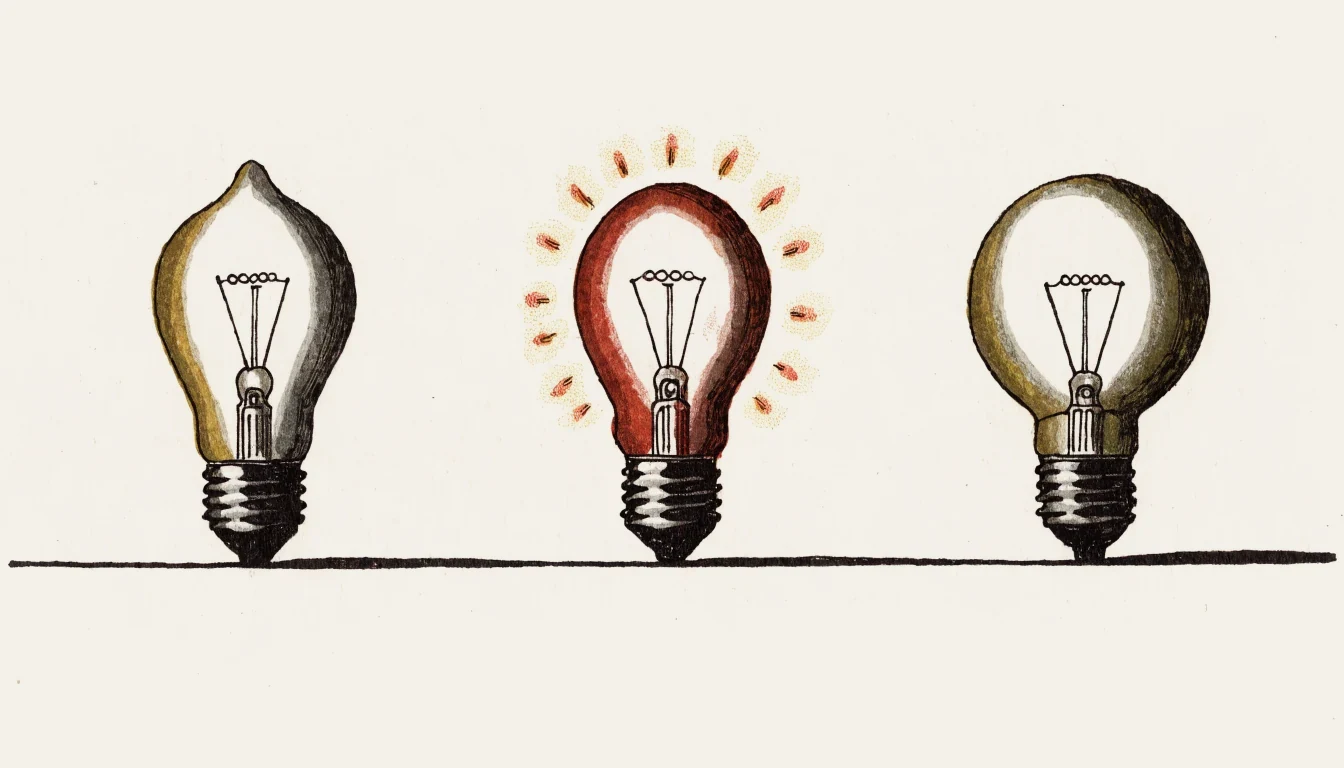
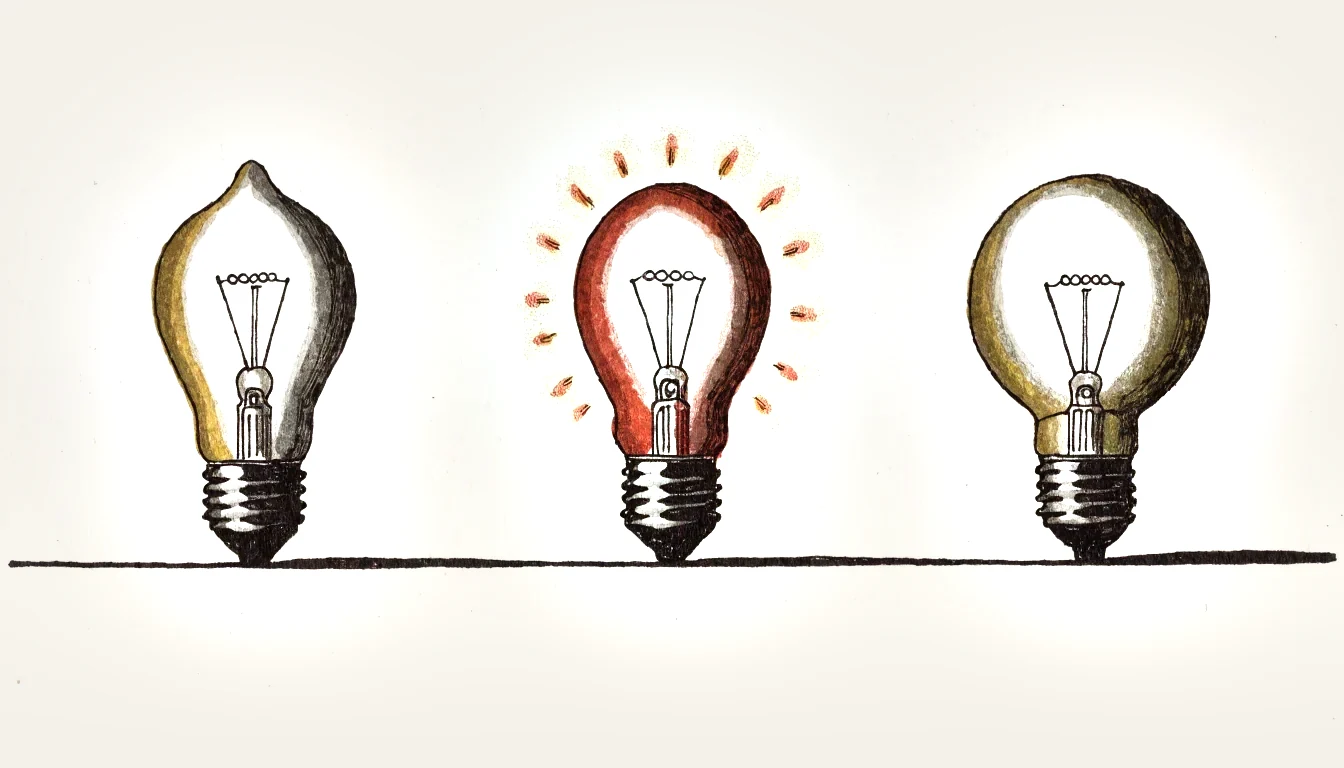
Bilder fuer die Lerndokus 03 bis 06
Zwoelf dekorative Tafeln, drei je Dokument, im gleichen Tuschestil.

Hybrid-Zeichnungen wie bei den FL-Leuchten:
- 04 FI-Schalter: Ringkern mit gegenlaeufigen Leitern, Sekundaerwicklung,
  Ausloeserelais und Kontakten; fuenf Callouts, zweisprachige Legende
- 06 Badezimmer: generierter Bad-Schnitt als Grundlage, darueber im SVG
  die Zonenflaechen 0/1/2 sowie die Masse 2.25 m und 0.60 m

05 IP-Kennzeichnung behaelt die handgezeichnete SVG-Zeichnung: sie besteht
fast nur aus Typografie, und Text ist genau das, was Bildmodelle verhauen.
03 LS-Automaten ebenfalls: der generierte Schnitt zeigte weder Loeschkammer
noch Kontaktsystem eindeutig, die Legende benennt aber acht Bauteile.

Bildgruende per Flat-Field auf den jeweiligen Hintergrund gelegt (Seite
bzw. figure) — die einfache Eckpunkt-Angleichung ueberhellte die Mitte,
weil die generierten Bilder eine Vignette haben.

Pruefung erweitert: <img>-Masse muessen zur Datei passen, in SVG
eingebettete Bilder muessen existieren.

Changed region(s): [[0.375, 0.1562, 0.625, 0.7812], [0.7188, 0.2188, 0.9375, 0.75], [0.0938, 0.2188, 0.2812, 0.75]]

diff --git a/lehrjahr-2/04-fi-schalter.html b/lehrjahr-2/04-fi-schalter.html
@@ -98,6 +98,14 @@
       <p lang="de">Der FI erkennt <strong>nur Ströme, die den Stromkreis verlassen</strong>. Wer gleichzeitig Aussenleiter und Neutralleiter berührt, wird nicht geschützt: Der Strom fliesst hin und wieder zurück, die Summe bleibt null. Der FI ersetzt darum niemals das Freischalten.</p>
       <p lang="en">The RCD only detects <strong>current that leaves the circuit</strong>. Anyone touching the line and the neutral at the same time is not protected: the current flows out and back, and the sum stays zero. An RCD therefore never replaces isolating the circuit.</p>
     </div>
+    <figure class="plate">
+      <img src="../assets/img/fi-02-aussensteckdose.webp" width="1344" height="768" loading="lazy" decoding="async" alt="Aussensteckdose mit Klappdeckel im Regen.">
+      <figcaption>
+        <span lang="de">Genau hier zählt der FI: nasse Umgebung, Handgerät, guter Weg zur Erde.</span>
+        <span lang="en">Exactly where an RCD counts: wet surroundings, a hand tool, a good path to earth.</span>
+      </figcaption>
+    </figure>
+
   </div>
 </section>
 
@@ -108,75 +116,31 @@
     <h2><span lang="de">Aufbau und Wirkungsweise</span><span lang="en">Construction and operation</span></h2>
 
     <figure>
-      <svg viewBox="0 0 760 400" xmlns="http://www.w3.org/2000/svg" role="img" aria-label="Wirkungsweise des FI-Schalters mit Summenstromwandler">
+      <svg viewBox="0 0 1500 980" xmlns="http://www.w3.org/2000/svg" role="img" aria-label="Wirkungsweise des FI-Schalters mit Summenstromwandler">
         <defs>
           <style>
-            .wl{fill:none;stroke:#B8402A;stroke-width:3;stroke-linecap:round}
-            .wn{fill:none;stroke:#1D5872;stroke-width:3;stroke-linecap:round}
-            .wpe{fill:none;stroke:#3F6B43;stroke-width:2.6;stroke-linecap:round;stroke-dasharray:8 5}
-            .core{fill:none;stroke:#48433B;stroke-width:9}
-            .coil{fill:none;stroke:#9A7B1F;stroke-width:2.6}
-            .bx{fill:#EFEAE0;stroke:#171614;stroke-width:2.2}
-            .lg{font-family:'IBM Plex Mono',monospace;font-size:12px;fill:#48433B}
-            .lgb{font-family:'IBM Plex Mono',monospace;font-size:12.5px;font-weight:600;fill:#171614}
-            .lgs{font-family:'IBM Plex Mono',monospace;font-size:10.5px;fill:#7D7669;letter-spacing:.07em}
-            .ldr{fill:none;stroke:#7D7669;stroke-width:1.2}
-            .arw{fill:none;stroke:#171614;stroke-width:2;stroke-linecap:round}
+            .cn{fill:#171614}
+            .cnt{fill:#F4F1EA;font-family:'IBM Plex Mono',monospace;font-size:19px;font-weight:600;text-anchor:middle}
+            .ldr{fill:none;stroke:#48433B;stroke-width:2}
           </style>
         </defs>
 
-        <!-- Ringkern -->
-        <ellipse class="core" cx="330" cy="150" rx="86" ry="58"/>
-        <text class="lgs" x="330" y="238" text-anchor="middle"><tspan lang="de">SUMMENSTROMWANDLER</tspan><tspan lang="en">CORE BALANCE TRANSFORMER</tspan></text>
+        <image href="../assets/img/fi-schema-ringkern.webp" x="0" y="90" width="1500" height="851"/>
 
-        <!-- Leiter durch den Kern -->
-        <path class="wl" d="M60 126 H600"/>
-        <path class="wn" d="M60 174 H600"/>
-        <text class="lgb" x="60" y="116" fill="#B8402A">L</text>
-        <text class="lgb" x="60" y="200" fill="#1D5872">N</text>
+        <path class="ldr" d="M815 65 V105"/>
+        <circle class="cn" cx="815" cy="45" r="20"/><text class="cnt" x="815" y="52">1</text>
 
-        <!-- Stromrichtungspfeile -->
-        <path class="arw" d="M180 126 h30 M204 120 l8 6 l-8 6" stroke="#B8402A"/>
-        <path class="arw" d="M210 174 h-30 M186 168 l-8 6 l8 6" stroke="#1D5872"/>
+        <path class="ldr" d="M1038 275 L886 292"/>
+        <circle class="cn" cx="1060" cy="272" r="20"/><text class="cnt" x="1060" y="279">2</text>
 
-        <!-- Sekundärwicklung -->
-        <path class="coil" d="M330 92 q -12 -10 0 -20 q 12 -10 0 -20"/>
-        <path class="coil" d="M330 52 H408"/>
+        <path class="ldr" d="M1192 748 L1034 682"/>
+        <circle class="cn" cx="1212" cy="757" r="20"/><text class="cnt" x="1212" y="764">3</text>
 
-        <!-- Auslöserelais -->
-        <rect class="bx" x="408" y="30" width="86" height="46" rx="3"/>
-        <text class="lg" x="451" y="52" text-anchor="middle"><tspan lang="de">Auslöse-</tspan><tspan lang="en">Trip</tspan></text>
-        <text class="lg" x="451" y="68" text-anchor="middle"><tspan lang="de">relais</tspan><tspan lang="en">relay</tspan></text>
+        <path class="ldr" d="M1400 372 V452"/>
+        <circle class="cn" cx="1400" cy="350" r="20"/><text class="cnt" x="1400" y="357">4</text>
 
-        <!-- Wirkung auf Kontakte -->
-        <path d="M451 76 V96 H208" stroke="#7D7669" stroke-width="1.8" stroke-dasharray="6 5" fill="none"/>
-        <path d="M208 96 V116" stroke="#7D7669" stroke-width="1.8" stroke-dasharray="6 5" fill="none"/>
-        <!-- Kontakte -->
-        <circle cx="208" cy="126" r="4.5" fill="#171614"/>
-        <circle cx="252" cy="126" r="4.5" fill="#171614"/>
-        <path d="M208 126 L248 112" stroke="#171614" stroke-width="3" stroke-linecap="round"/>
-        <circle cx="208" cy="174" r="4.5" fill="#171614"/>
-        <circle cx="252" cy="174" r="4.5" fill="#171614"/>
-        <path d="M208 174 L248 160" stroke="#171614" stroke-width="3" stroke-linecap="round"/>
-        <text class="lgs" x="196" y="104"><tspan lang="de">ALLPOLIGE TRENNUNG</tspan><tspan lang="en">ALL-POLE DISCONNECTION</tspan></text>
-
-        <!-- Prüfkreis -->
-        <path d="M470 126 V270 H556" stroke="#B8402A" stroke-width="2.4" fill="none"/>
-        <path d="M556 270 h18" stroke="#B8402A" stroke-width="2.4"/>
-        <circle cx="592" cy="270" r="20" fill="#F0DBD4" stroke="#B8402A" stroke-width="2.4"/>
-        <text x="592" y="276" font-family="'Archivo',sans-serif" font-size="16" font-weight="800" fill="#B8402A" text-anchor="middle">T</text>
-        <path d="M592 250 V174" stroke="#1D5872" stroke-width="2.4" fill="none" stroke-dasharray="0"/>
-        <text class="lgs" x="500" y="292"><tspan lang="de">PRÜFKREIS — ERZEUGT EINEN DEFINIERTEN FEHLERSTROM</tspan><tspan lang="en">TEST CIRCUIT — CREATES A DEFINED RESIDUAL CURRENT</tspan></text>
-
-        <!-- Fehlerstrom nach Erde -->
-        <path class="wpe" d="M600 126 V340 H330"/>
-        <path class="wpe" d="M330 340 V208"/>
-        <text class="lgs" x="356" y="360" fill="#3F6B43"><tspan lang="de">FEHLERSTROM ÜBER ERDE — VERLÄSST DEN KERN NICHT ZURÜCK</tspan><tspan lang="en">FAULT CURRENT VIA EARTH — DOES NOT RETURN THROUGH THE CORE</tspan></text>
-
-        <!-- Formel -->
-        <path class="ldr" d="M416 150 H520"/>
-        <text class="lgb" x="528" y="146">I<tspan baseline-shift="sub" font-size="9">L</tspan> + I<tspan baseline-shift="sub" font-size="9">N</tspan> = 0</text>
-        <text class="lgs" x="528" y="164"><tspan lang="de">IM FEHLERFREIEN KREIS</tspan><tspan lang="en">IN A HEALTHY CIRCUIT</tspan></text>
+        <path class="ldr" d="M218 676 L296 594"/>
+        <circle class="cn" cx="200" cy="694" r="20"/><text class="cnt" x="200" y="701">5</text>
       </svg>
       <figcaption>
         <b><span lang="de">Bild 1</span><span lang="en">Fig. 1</span></b>
@@ -184,6 +148,14 @@
         <span lang="en"> — Principle of operation. All live conductors pass through the same toroidal core. Only if the sum of the currents is not zero does a voltage appear in the secondary winding.</span>
       </figcaption>
     </figure>
+
+    <ul class="legend">
+      <li><span class="n">1</span><span lang="de">Auslöserelais — wird von der Sekundärwicklung gespeist und entklinkt das Schaltschloss</span><span lang="en">Trip relay — fed by the secondary winding, it releases the latch</span></li>
+      <li><span class="n">2</span><span lang="de">Sekundärwicklung auf dem Ringkern</span><span lang="en">Secondary winding on the toroidal core</span></li>
+      <li><span class="n">3</span><span lang="de">Summenstromwandler — der Ringkern, durch den alle aktiven Leiter führen</span><span lang="en">Core balance transformer — the ring core all live conductors pass through</span></li>
+      <li><span class="n">4</span><span lang="de">Aktive Leiter mit gegenläufiger Stromrichtung; der Schutzleiter führt <strong>nicht</strong> durch den Kern</span><span lang="en">Live conductors with opposing current directions; the protective conductor does <strong>not</strong> pass through the core</span></li>
+      <li><span class="n">5</span><span lang="de">Kontakte — trennen alle Pole gleichzeitig</span><span lang="en">Contacts — disconnecting all poles simultaneously</span></li>
+    </ul>
 
     <h3><span lang="de">Der Ablauf</span><span lang="en">The sequence</span></h3>
     <ol lang="de">
@@ -331,6 +303,14 @@
       <p lang="de">Jedes elektronische Gerät hat einen kleinen, völlig normalen Ableitstrom. Hängen viele Geräte hinter demselben 30-mA-FI, addieren sich diese Ströme und der FI löst irgendwann ohne echten Fehler aus. Faustregel: Der summierte Ableitstrom soll deutlich unter der Hälfte des Bemessungsfehlerstromes bleiben. Abhilfe: Last auf mehrere FI aufteilen.</p>
       <p lang="en">Every electronic device has a small, entirely normal leakage current. With many devices behind the same 30 mA RCD, these add up and the device eventually trips without a real fault. Rule of thumb: the total leakage should stay well below half the rated residual current. The remedy is to split the load across several RCDs.</p>
     </div>
+    <figure class="plate">
+      <img src="../assets/img/fi-01-fi-und-ls.webp" width="1344" height="768" loading="lazy" decoding="async" alt="Ein breiter FI-Schalter neben drei schmaleren Leitungsschutzschaltern.">
+      <figcaption>
+        <span lang="de">Der FI ist breiter als die Automaten daneben — er führt alle aktiven Leiter.</span>
+        <span lang="en">The RCD is wider than the breakers beside it — it carries all live conductors.</span>
+      </figcaption>
+    </figure>
+
   </div>
 </section>
 
@@ -380,6 +360,14 @@
       <p lang="de">Wo ein FI vorgeschrieben ist, mit welchem Bemessungsfehlerstrom und welchem Typ, regelt die NIN — unter anderem für Steckdosenstromkreise, Nassbereiche, Aussenanlagen, Baustellen und Ladeeinrichtungen. <strong>Die geltenden Artikel vor der Abgabe in der eigenen NIN-Ausgabe nachschlagen</strong>, die Anforderungen wurden über die Ausgaben hinweg mehrfach erweitert.</p>
       <p lang="en">Where an RCD is required, with which rated residual current and which type, is governed by the NIN — among others for socket circuits, wet areas, outdoor installations, construction sites and charging equipment. <strong>Look up the applicable articles in your own NIN edition</strong>; the requirements have been extended repeatedly across editions.</p>
     </div>
+    <figure class="plate">
+      <img src="../assets/img/fi-03-verteiler.webp" width="1344" height="768" loading="lazy" decoding="async" alt="Offene Hausverteilung mit Schutzeinrichtungen und geordneter Verdrahtung.">
+      <figcaption>
+        <span lang="de">Zum Eingrenzen die Stromkreise einzeln zuschalten — der Kreis, bei dem der FI fällt, enthält den Fehler.</span>
+        <span lang="en">To narrow a fault down, switch the circuits on one at a time — the one that drops the RCD holds the fault.</span>
+      </figcaption>
+    </figure>
+
   </div>
 </section>
 

diff --git a/lehrjahr-2/06-badezimmer.html b/lehrjahr-2/06-badezimmer.html
@@ -74,6 +74,14 @@
 
     <p lang="de">Deshalb gilt das Badezimmer als <strong>Raum mit erhöhter Gefährdung</strong>. Die NIN behandelt es in einem eigenen Kapitel und teilt den Raum in <strong>Bereiche</strong> ein. Je näher an Wanne oder Dusche, desto strenger die Anforderungen.</p>
     <p lang="en">A bathroom therefore counts as a <strong>location with increased risk</strong>. The NIN covers it in a chapter of its own and divides the room into <strong>zones</strong>. The closer to bath or shower, the stricter the requirements.</p>
+    <figure class="plate">
+      <img src="../assets/img/bad-01-raum.webp" width="1344" height="768" loading="lazy" decoding="async" alt="Badezimmer im Schnitt mit Wanne, Duschbrause und Lavabo.">
+      <figcaption>
+        <span lang="de">Wasser, nasse Haut und barfuss auf leitfähigem Boden — alles zugleich.</span>
+        <span lang="en">Water, wet skin and bare feet on a conductive floor — all at once.</span>
+      </figcaption>
+    </figure>
+
   </div>
 </section>
 
@@ -84,78 +92,54 @@
     <h2><span lang="de">Die Bereiche und ihre Masse</span><span lang="en">The zones and their dimensions</span></h2>
 
     <figure>
-      <svg viewBox="0 0 760 420" xmlns="http://www.w3.org/2000/svg" role="img" aria-label="Bereichseinteilung im Badezimmer mit Massen">
+      <svg viewBox="0 0 1620 1010" xmlns="http://www.w3.org/2000/svg" role="img" aria-label="Bereichseinteilung im Badezimmer mit Massen">
         <defs>
           <style>
-            .wall{fill:#EFEAE0;stroke:#171614;stroke-width:2.4}
-            .z0{fill:#B8402A;opacity:.22}
-            .z1{fill:#D8A72A;opacity:.20}
-            .z2{fill:#1D5872;opacity:.15}
-            .tub{fill:#D6E3E9;stroke:#171614;stroke-width:2.4}
-            .dim{fill:none;stroke:#48433B;stroke-width:1.4}
-            .dl{font-family:'IBM Plex Mono',monospace;font-size:12px;font-weight:600;fill:#171614;text-anchor:middle}
-            .zl{font-family:'Archivo',sans-serif;font-size:20px;font-weight:800;text-anchor:middle}
-            .lgs{font-family:'IBM Plex Mono',monospace;font-size:10.5px;fill:#7D7669;letter-spacing:.07em}
-            .lg{font-family:'IBM Plex Mono',monospace;font-size:12px;fill:#48433B}
+            .zl{font-family:'Archivo',sans-serif;font-size:44px;font-weight:800;text-anchor:middle}
+            .dim{fill:none;stroke:#48433B;stroke-width:2}
+            .dl{font-family:'IBM Plex Mono',monospace;font-size:22px;font-weight:600;fill:#171614;text-anchor:middle}
+            .lgs{font-family:'IBM Plex Mono',monospace;font-size:26px;fill:#7D7669;letter-spacing:.06em}
           </style>
         </defs>
 
-        <!-- Boden und Wand -->
-        <path d="M90 350 H660" stroke="#171614" stroke-width="3"/>
-        <path d="M90 40 V350" stroke="#171614" stroke-width="3"/>
+        <image href="../assets/img/bad-schema-bereiche.webp" x="120" y="60" width="1500" height="874"/>
 
-        <!-- Bereich 2 (aussen) -->
-        <rect class="z2" x="330" y="60" width="96" height="290"/>
-        <!-- Bereich 1 -->
-        <rect class="z1" x="90" y="60" width="240" height="230"/>
-        <!-- Bereich 0 = Wanneninneres -->
-        <rect class="z0" x="98" y="290" width="224" height="52"/>
+        <!-- Zonenflaechen über der Zeichnung, halbtransparent -->
+        <rect x="658" y="230" width="159" height="596" fill="#1D5872" opacity=".16"/>
+        <rect x="144" y="230" width="514" height="596" fill="#D8A72A" opacity=".22"/>
+        <rect x="160" y="670" width="480" height="148" fill="#B8402A" opacity=".24"/>
 
-        <!-- Wanne -->
-        <path class="tub" d="M94 288 h232 v18 a48 48 0 0 1 -48 44 H142 a48 48 0 0 1 -48 -44 z"/>
+        <!-- 2.25-m-Linie -->
+        <path d="M144 230 H817" stroke="#48433B" stroke-width="2" stroke-dasharray="9 6" fill="none"/>
 
-        <!-- Bereichsbeschriftung -->
-        <text class="zl" x="210" y="326" fill="#8A2F1E">0</text>
-        <text class="zl" x="210" y="170" fill="#9A7B1F">1</text>
-        <text class="zl" x="378" y="170" fill="#1D5872">2</text>
-        <text class="zl" x="520" y="170" fill="#7D7669"><tspan lang="de">ausserhalb</tspan><tspan lang="en">outside</tspan></text>
+        <!-- Bereichsnummern -->
+        <text class="zl" x="400" y="780" fill="#8A2F1E">0</text>
+        <text class="zl" x="400" y="470" fill="#9A7B1F">1</text>
+        <text class="zl" x="737" y="470" fill="#1D5872">2</text>
+        <text class="lgs" x="900" y="470"><tspan lang="de">ausserhalb der Bereiche</tspan><tspan lang="en">outside the zones</tspan></text>
 
-        <!-- Höhe 2.25 m -->
-        <path class="dim" d="M64 60 V350"/>
-        <path class="dim" d="M58 60 h12 M58 350 h12"/>
-        <text class="dl" x="40" y="210" transform="rotate(-90 40 210)">2.25 m</text>
-        <path d="M90 60 H426" stroke="#48433B" stroke-width="1.6" stroke-dasharray="7 5"/>
+        <!-- Hoehenmass 2.25 m -->
+        <path class="dim" d="M70 230 V826"/>
+        <path class="dim" d="M62 230 h16 M62 826 h16"/>
+        <text class="dl" x="42" y="528" transform="rotate(-90 42 528)">2.25 m</text>
 
-        <!-- Breite 0.60 m -->
-        <path class="dim" d="M330 388 H426"/>
-        <path class="dim" d="M330 382 v12 M426 382 v12"/>
-        <text class="dl" x="378" y="408">0.60 m</text>
-
-        <!-- Wanne Grenze -->
-        <path class="dim" d="M330 60 V388" stroke-dasharray="5 4"/>
-        <path class="dim" d="M426 60 V388" stroke-dasharray="5 4"/>
-
-        <!-- Legende rechts -->
-        <g>
-          <rect x="470" y="240" width="22" height="14" fill="#B8402A" opacity=".4"/>
-          <text class="lg" x="502" y="252"><tspan lang="de">Bereich 0 — Wanneninneres</tspan><tspan lang="en">Zone 0 — inside the tub</tspan></text>
-          <text class="lgs" x="502" y="268">IPX7</text>
-
-          <rect x="470" y="286" width="22" height="14" fill="#D8A72A" opacity=".4"/>
-          <text class="lg" x="502" y="298"><tspan lang="de">Bereich 1 — über der Wanne</tspan><tspan lang="en">Zone 1 — above the tub</tspan></text>
-          <text class="lgs" x="502" y="314">IPX4</text>
-
-          <rect x="470" y="332" width="22" height="14" fill="#1D5872" opacity=".3"/>
-          <text class="lg" x="502" y="344"><tspan lang="de">Bereich 2 — seitlich anschliessend</tspan><tspan lang="en">Zone 2 — adjoining to the side</tspan></text>
-          <text class="lgs" x="502" y="360">IPX4</text>
-        </g>
+        <!-- Breitenmass 0.60 m -->
+        <path class="dim" d="M658 880 H817"/>
+        <path class="dim" d="M658 872 v16 M817 872 v16"/>
+        <text class="dl" x="737" y="916">0.60 m</text>
       </svg>
       <figcaption>
         <b><span lang="de">Bild 1</span><span lang="en">Fig. 1</span></b>
-        <span lang="de"> — Bereichseinteilung im Schnitt. Bereich 1 reicht bis 2,25 m über den Boden, Bereich 2 schliesst seitlich mit 0,60 m an.</span>
-        <span lang="en"> — Zones shown in section. Zone 1 extends to 2.25 m above the floor, zone 2 adjoins it laterally by 0.60 m.</span>
+        <span lang="de"> — Bereichseinteilung im Schnitt. Bereich 1 reicht bis 2,25 m über den <strong>Boden</strong>, Bereich 2 schliesst seitlich mit 0,60 m an.</span>
+        <span lang="en"> — Zones shown in section. Zone 1 extends to 2.25 m above the <strong>floor</strong>, zone 2 adjoins it laterally by 0.60 m.</span>
       </figcaption>
     </figure>
+
+    <ul class="legend">
+      <li><span class="n">0</span><span lang="de">Bereich 0 — das Innere der Wanne; Mindestschutzart IPX7</span><span lang="en">Zone 0 — the interior of the tub; minimum IPX7</span></li>
+      <li><span class="n">1</span><span lang="de">Bereich 1 — senkrecht darüber bis 2,25 m ab Boden; IPX4</span><span lang="en">Zone 1 — vertically above it to 2.25 m from the floor; IPX4</span></li>
+      <li><span class="n">2</span><span lang="de">Bereich 2 — seitlich anschliessend, 0,60 m breit, gleiche Höhe; IPX4</span><span lang="en">Zone 2 — adjoining laterally, 0.60 m wide, same height; IPX4</span></li>
+    </ul>
 
     <div class="tablewrap">
       <table>
@@ -317,6 +301,14 @@
 
     <p lang="de">Die Querschnitte des zusätzlichen Potentialausgleichs sind in Thema 11 dieses Lehrjahres behandelt.</p>
     <p lang="en">The cross-sections for supplementary bonding are covered in topic 11 of this year.</p>
+    <figure class="plate">
+      <img src="../assets/img/bad-03-rohrschelle.webp" width="1344" height="768" loading="lazy" decoding="async" alt="Rohrschelle auf einem Metallrohr, grün-gelber Leiter führt weg.">
+      <figcaption>
+        <span lang="de">Rohrschelle auf blankem Metall — die Verbindung muss zugänglich und messbar bleiben.</span>
+        <span lang="en">Pipe clamp on bare metal — the connection must stay accessible and measurable.</span>
+      </figcaption>
+    </figure>
+
   </div>
 </section>
 
@@ -375,6 +367,14 @@
       <p lang="de">Die Bereichseinteilung, die Masse und die zulässigen Betriebsmittel sind in der NIN im Kapitel über Räume mit Badewanne oder Dusche geregelt. Die Festlegungen <strong>unterscheiden sich zwischen den Ausgaben</strong> — insbesondere hat sich die Behandlung eines früher vorhandenen weiteren Bereichs geändert. <strong>Vor der Abgabe die Bereiche, Masse und Artikelnummern in der eigenen NIN-Ausgabe nachschlagen</strong> und im Text zitieren.</p>
       <p lang="en">The zones, dimensions and permitted equipment are laid down in the NIN chapter on rooms with a bath or shower. The provisions <strong>differ between editions</strong> — in particular the treatment of a formerly existing further zone has changed. <strong>Before submitting, look up the zones, dimensions and article numbers in your own NIN edition</strong> and cite them.</p>
     </div>
+    <figure class="plate">
+      <img src="../assets/img/bad-02-spiegel.webp" width="1344" height="768" loading="lazy" decoding="async" alt="Badezimmerwand mit Spiegel, Leuchte darüber und Lavabo darunter.">
+      <figcaption>
+        <span lang="de">Ob eine Steckdose hier zulässig ist, entscheidet der Abstand zur Wanne — nicht zum Lavabo.</span>
+        <span lang="en">Whether a socket is permitted here depends on the distance to the bath — not to the basin.</span>
+      </figcaption>
+    </figure>
+
   </div>
 </section>
 

diff --git a/lehrjahr-2/05-ip-kennzeichnung.html b/lehrjahr-2/05-ip-kennzeichnung.html
@@ -116,6 +116,14 @@
       <p lang="de"><code>IPX4</code> heisst: gegen Wasser geprüft (Spritzwasser), gegen Festkörper <strong>nicht angegeben</strong>. Das X ist kein Nullwert — es bedeutet nur, dass diese Eigenschaft nicht geprüft oder nicht deklariert wurde.</p>
       <p lang="en"><code>IPX4</code> means: tested against water (splashing), <strong>not specified</strong> against solid bodies. The X is not a zero — it merely means this property was not tested or not declared.</p>
     </div>
+    <figure class="plate">
+      <img src="../assets/img/ip-01-gehaeuse-regen.webp" width="1344" height="768" loading="lazy" decoding="async" alt="Gehäuse an einer Wand im Regen, Verschraubungen nach unten.">
+      <figcaption>
+        <span lang="de">Die Schutzart gilt nur für das fachgerecht montierte Gehäuse.</span>
+        <span lang="en">The rating only applies to a properly assembled enclosure.</span>
+      </figcaption>
+    </figure>
+
   </div>
 </section>
 
@@ -261,6 +269,14 @@
       <p lang="de">Eine Leuchte in einer Turnhalle braucht nicht nur IP-Schutz gegen Reinigungswasser, sondern vor allem einen hohen IK-Wert gegen den Fussball. In einer Tiefgarage zählt beides: Spritzwasser von den Fahrzeugen und ein Stoss vom Kotflügel.</p>
       <p lang="en">A luminaire in a gymnasium needs not only IP protection against cleaning water but above all a high IK value against footballs. In an underground car park both count: splashing water from vehicles and a knock from a wing mirror.</p>
     </div>
+    <figure class="plate">
+      <img src="../assets/img/ip-02-abzweigdosen.webp" width="1344" height="768" loading="lazy" decoding="async" alt="Zwei Abzweigdosen, eine geschlossen, eine mit abgehobenem Deckel und sichtbarer Dichtung.">
+      <figcaption>
+        <span lang="de">Ohne saubere Dichtung und vollständigen Deckel bleibt von der Schutzart nichts übrig.</span>
+        <span lang="en">Without a clean gasket and a complete lid, nothing of the rating remains.</span>
+      </figcaption>
+    </figure>
+
   </div>
 </section>
 
@@ -318,6 +334,14 @@
       <p lang="de">Diese Werte sind <strong>übliche Praxiswerte</strong>. Die verbindliche Mindestschutzart je Raumart und Zone steht in der NIN — <strong>vor der Abgabe dort nachschlagen</strong> und die Artikel zitieren.</p>
       <p lang="en">These are <strong>common values from practice</strong>. The binding minimum rating per type of location and zone is given in the NIN — <strong>look it up before submitting</strong> and cite the articles.</p>
     </div>
+    <figure class="plate">
+      <img src="../assets/img/ip-03-verschraubung.webp" width="1344" height="768" loading="lazy" decoding="async" alt="Kabelverschraubung mit eingeführtem Kabel, Klemmmutter und Dichtung.">
+      <figcaption>
+        <span lang="de">Die Verschraubung muss zum Kabeldurchmesser passen — der Klemmbereich steht darauf.</span>
+        <span lang="en">The gland must match the cable diameter — its clamping range is printed on it.</span>
+      </figcaption>
+    </figure>
+
   </div>
 </section>
 

diff --git a/lehrjahr-2/03-ls-automaten.html b/lehrjahr-2/03-ls-automaten.html
@@ -82,6 +82,14 @@
       <p lang="de">Der LS-Automat schützt die <strong>Leitung</strong>, nicht den Menschen und nicht das angeschlossene Gerät. Für den Personenschutz braucht es zusätzlich den Fehlerstromschutzschalter, für den Motorschutz den Motorschutzschalter mit einstellbarem Bimetall.</p>
       <p lang="en">The breaker protects the <strong>cable</strong> — not the person and not the connected appliance. Personal protection additionally requires an RCD, and motor protection requires a motor protection switch with an adjustable bimetal.</p>
     </div>
+    <figure class="plate">
+      <img src="../assets/img/ls-01-reihe.webp" width="1344" height="768" loading="lazy" decoding="async" alt="Sechs Leitungsschutzschalter nebeneinander auf einer Hutschiene.">
+      <figcaption>
+        <span lang="de">Sechs Automaten auf der Hutschiene — jeder schützt eine Leitung.</span>
+        <span lang="en">Six breakers on a DIN rail — each protects one cable.</span>
+      </figcaption>
+    </figure>
+
   </div>
 </section>
 
@@ -360,6 +368,14 @@
       <li><strong>Selective main breaker</strong> — upstream of the board, time-graded against the downstream breakers</li>
       <li><strong>Auxiliary and fault signalling contacts</strong> — clip-on, reporting position or a trip to the control system</li>
     </ul>
+    <figure class="plate">
+      <img src="../assets/img/ls-03-einzeln.webp" width="1344" height="768" loading="lazy" decoding="async" alt="Ein einzelner Leitungsschutzschalter von vorn.">
+      <figcaption>
+        <span lang="de">Bemessungsstrom, Charakteristik und Schaltvermögen stehen auf der Front.</span>
+        <span lang="en">Rated current, characteristic and breaking capacity are printed on the front.</span>
+      </figcaption>
+    </figure>
+
   </div>
 </section>
 
@@ -418,6 +434,14 @@
       <p lang="de">Einen ständig auslösenden Automaten durch einen grösseren ersetzen, ohne die Leitung zu prüfen. Die Leitung bleibt dieselbe — nur ihr Schutz ist dann weg. Zuerst die Ursache suchen: zu viele Verbraucher, defektes Gerät, Isolationsfehler oder ein zu klein dimensionierter Querschnitt.</p>
       <p lang="en">Replacing a repeatedly tripping breaker with a bigger one without checking the cable. The cable stays the same — only its protection is gone. Find the cause first: too many loads, a faulty appliance, an insulation fault, or an undersized conductor.</p>
     </div>
+    <figure class="plate">
+      <img src="../assets/img/ls-02-sammelschiene.webp" width="1344" height="768" loading="lazy" decoding="async" alt="Kammförmige Sammelschiene über den Klemmen mehrerer Automaten.">
+      <figcaption>
+        <span lang="de">Sammelschiene — sauber abgelängt, die Schnittkante berührungssicher abgedeckt.</span>
+        <span lang="en">Busbar comb — cut cleanly, the cut end covered so it cannot be touched.</span>
+      </figcaption>
+    </figure>
+
   </div>
 </section>
 
